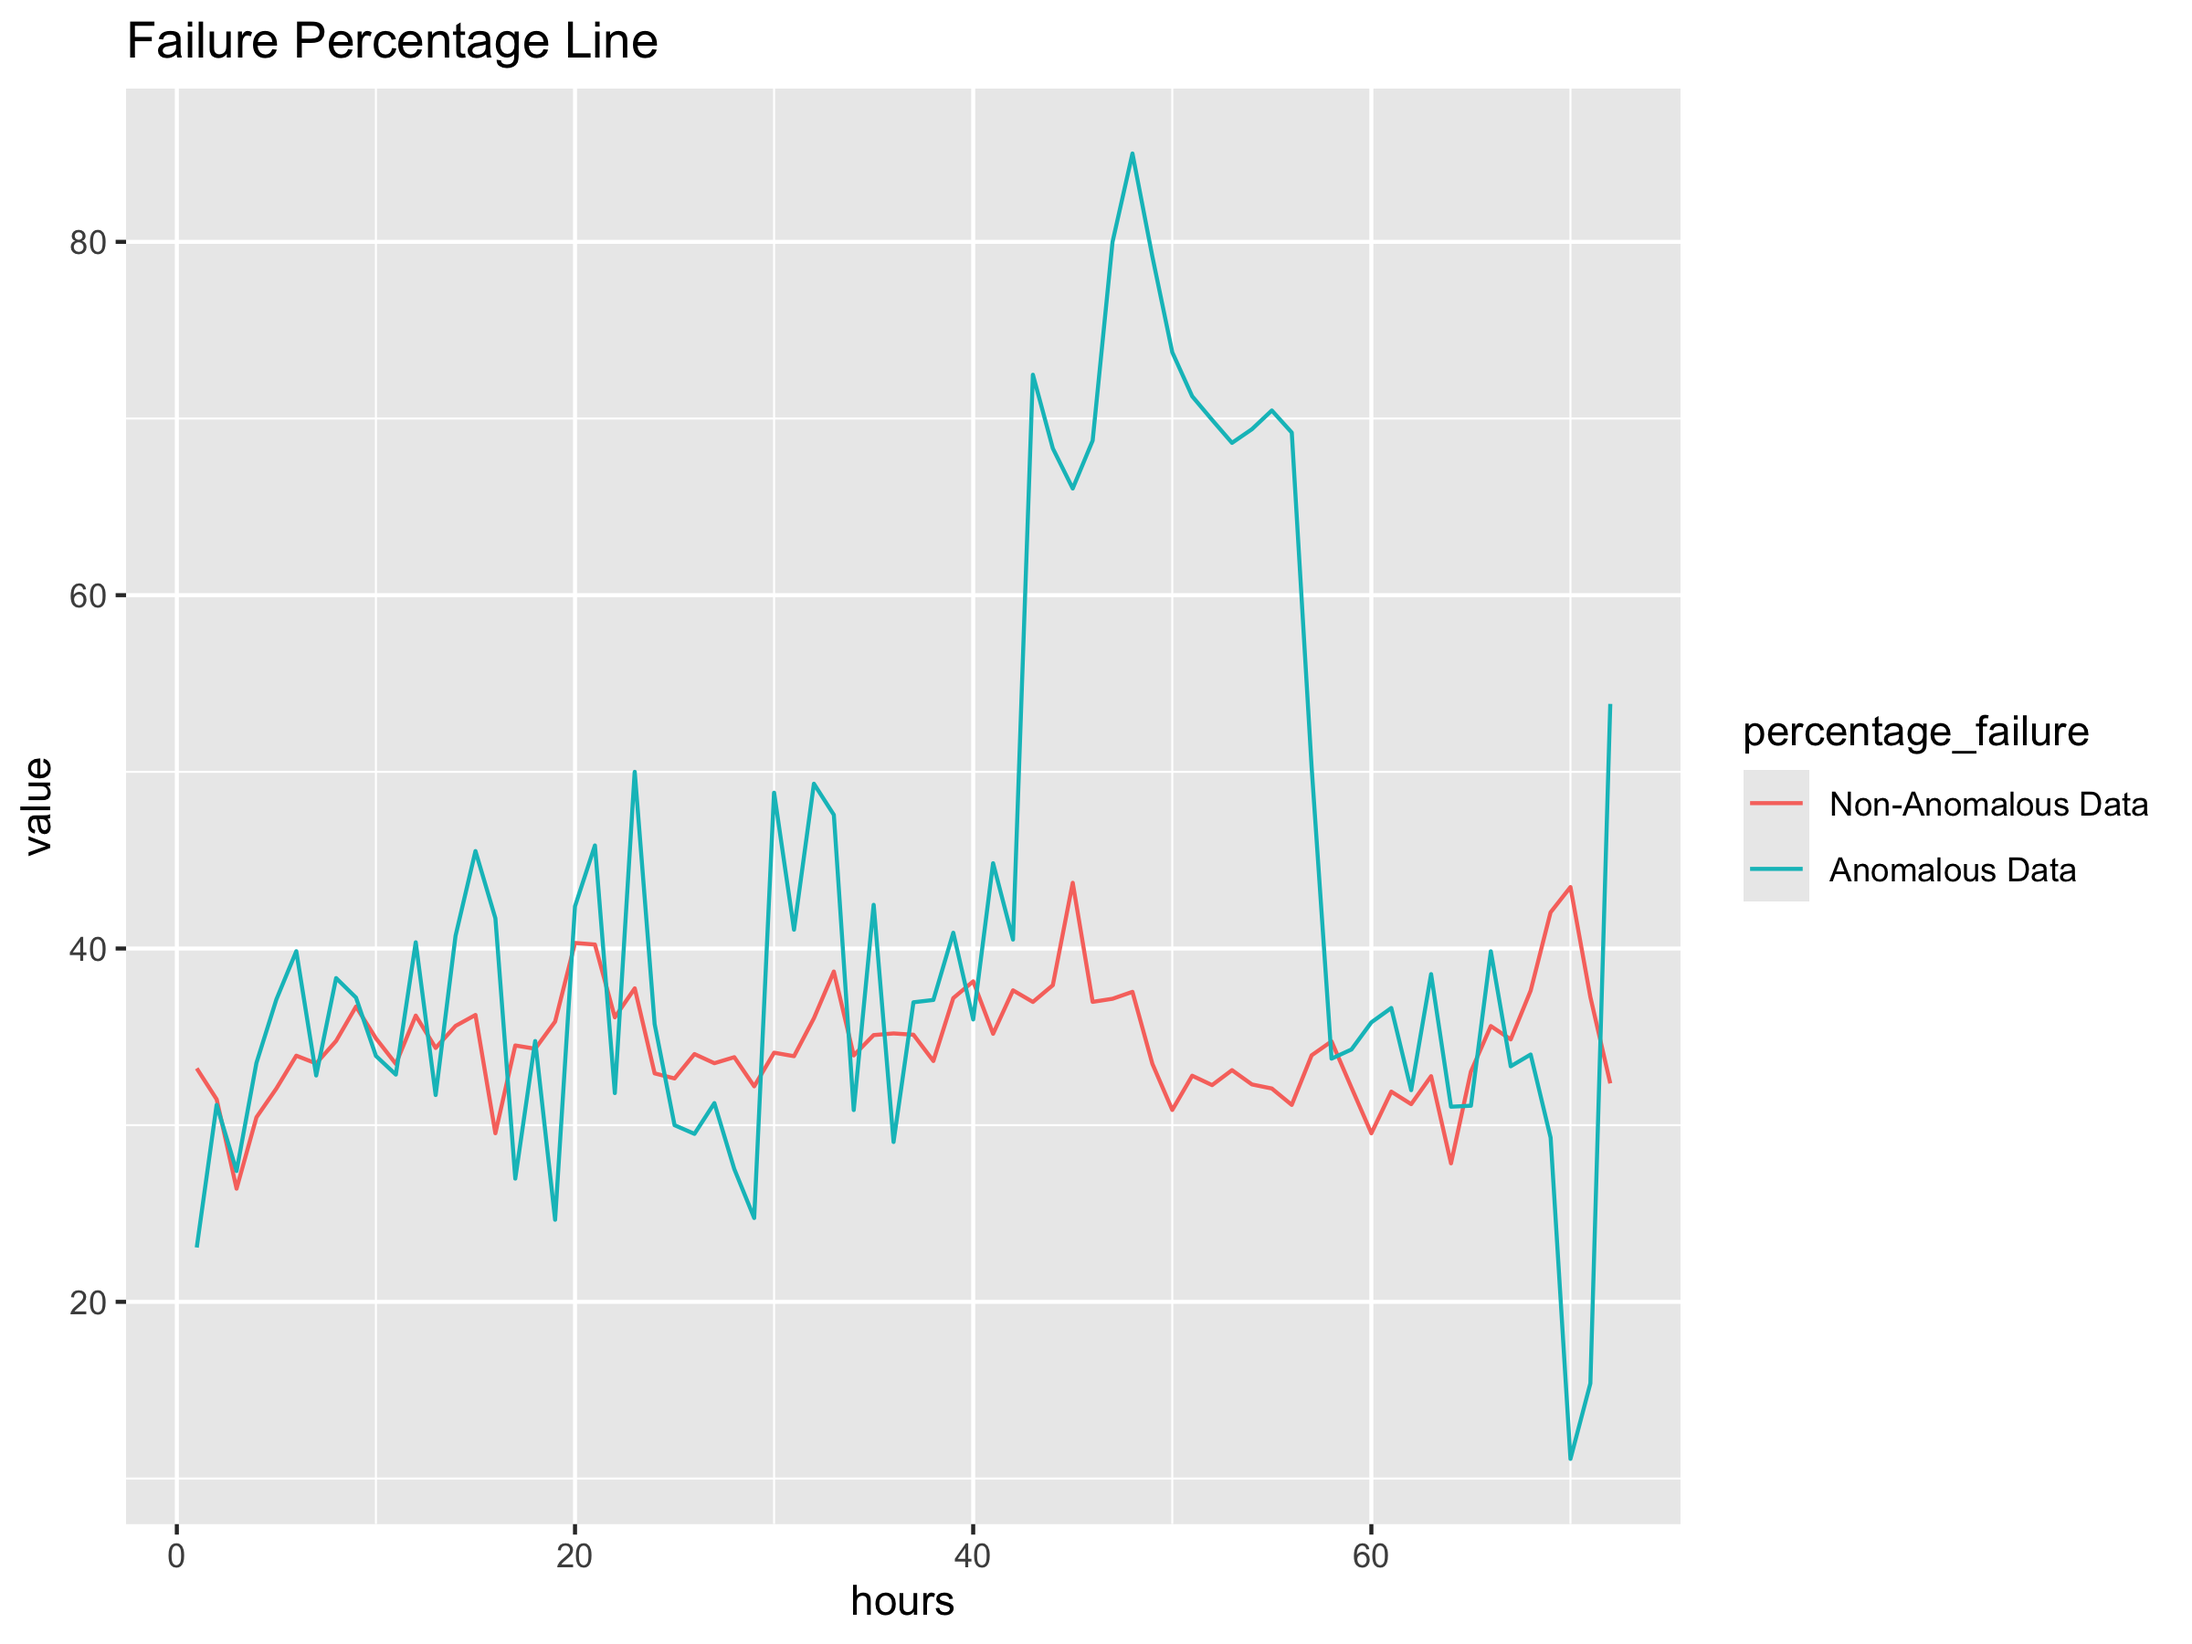
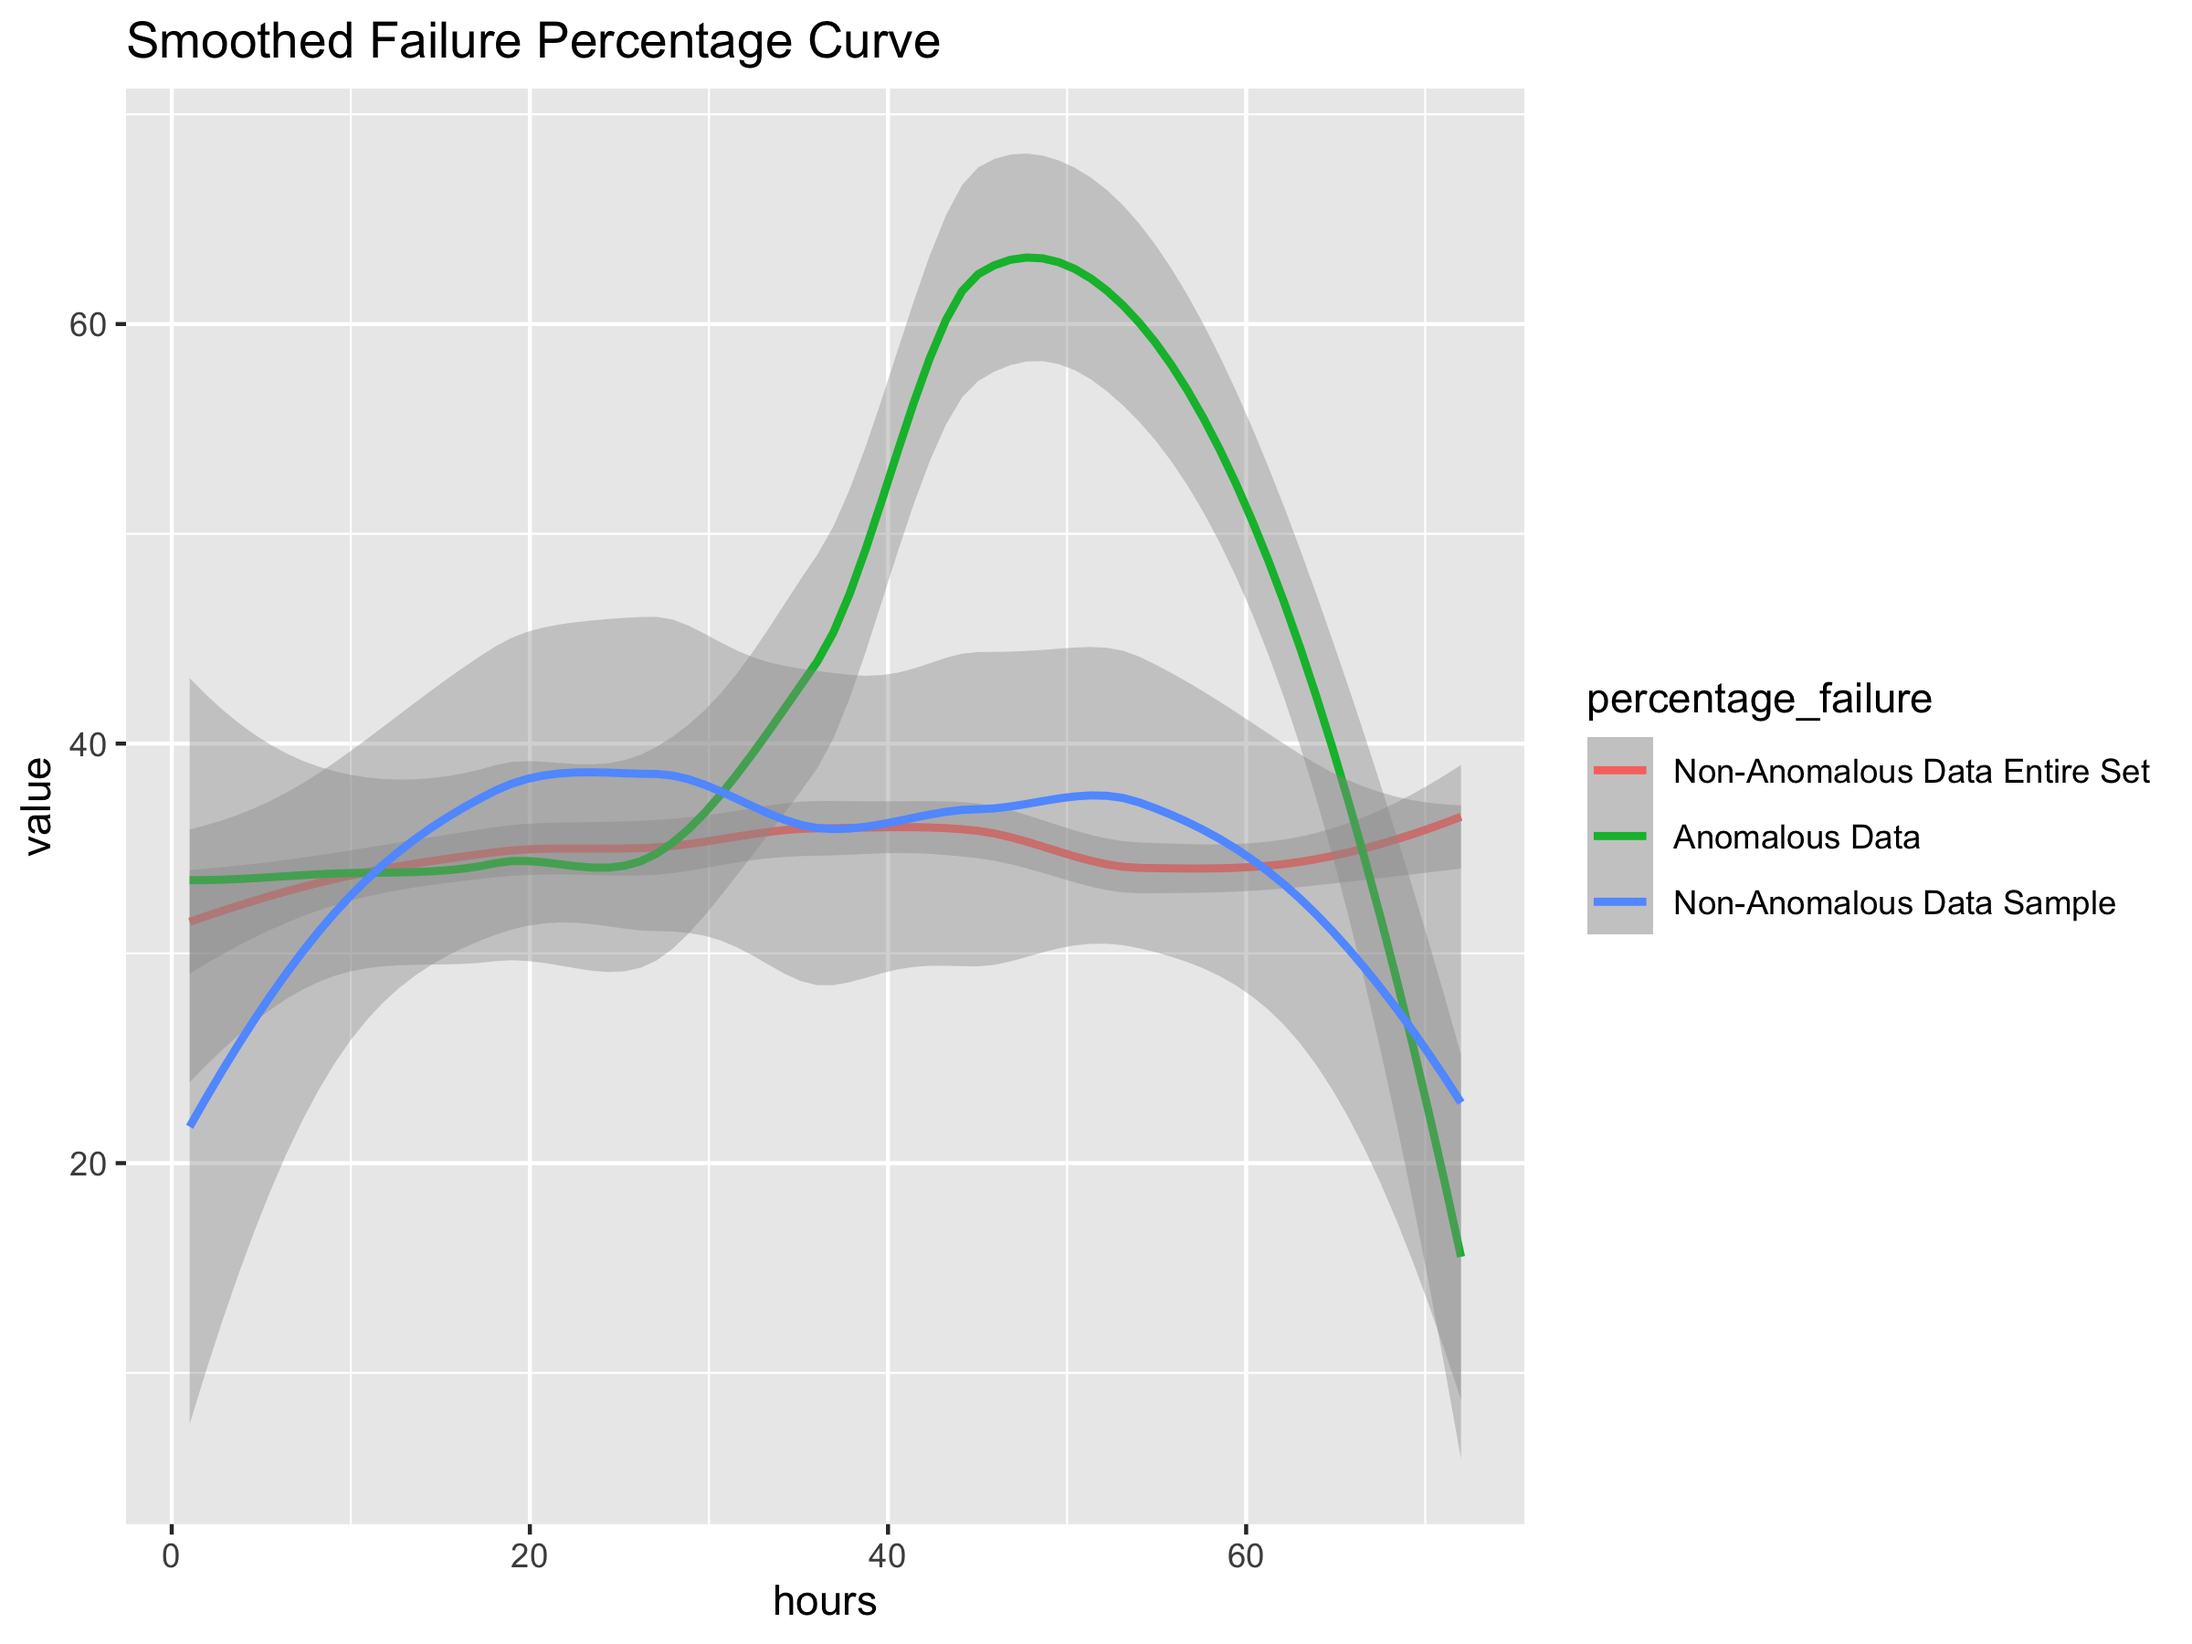
kk

diff --git a/Anamoly_Detection/ReadMe.md b/Anamoly_Detection/ReadMe.md
@@ -648,6 +648,9 @@ To investigate this, we separate the data with the combination of
 variables we found to be problematic from the normal data and produce
 the following plots to compare the two.
 
+Then to produce a fair comparison, we make the number of observations
+within each set equal by selected 552 of the normal data rows at random.
+
 ###### anomaly data
 
 ``` r
@@ -679,14 +682,27 @@ f <- t[, 2] - s[, 2]
 proportion_c <- f / t[, 2] * 100
 ```
 
+###### normal data but equal number of observations selected at random as the anomalous subset
+
+``` r
+set.seed(42)  
+paytm_compliment_sample <- paytm_compliment[sample(nrow(paytm_compliment), 552), ]
+
+t <- aggregate(paytm_compliment_sample$t, by = list(paytm_compliment_sample$hr), sum)
+s <- aggregate(paytm_compliment_sample$s, by = list(paytm_compliment_sample$hr), sum)
+f <- t[, 2] - s[, 2]
+
+proportion_c_sample <- f / t[, 2] * 100
+```
+
 ``` r
 hours <- seq(1, 72, 1)
-wide <- as.data.frame(cbind(hours, proportion_c, proportion_subset))
+wide <- as.data.frame(cbind(hours, proportion_c, proportion_subset,proportion_c_sample))
 
 long <- melt(
   data = wide, 
   id.vars = c("hours"), 
-  measured.vars = c("proportion_c", "proportion_subset"), 
+  measured.vars = c("proportion_c", "proportion_subset","proportion_c_sample"), 
   variable.name = "percentage_failure"
 )
 ```
@@ -698,12 +714,12 @@ ggplot(data = long, aes(x = hours, y = value, group = percentage_failure, color 
     title = "Smoothed Failure Percentage Curve", 
     ylab = "Percentage"
   ) + 
-  scale_color_discrete(labels = c("Non-Anomalous Data", "Anomalous Data"))
+  scale_color_discrete(labels = c("Non-Anomalous Data Entire Set", "Anomalous Data","Non-Anomalous Data Sample"))
 ```
 
 <div align="center">
 
-<img src="ReadMe_files/figure-gfm/unnamed-chunk-19-1.png" width="70%">
+<img src="ReadMe_files/figure-gfm/unnamed-chunk-20-1.png" width="70%">
 
 </div>
 
@@ -723,7 +739,7 @@ ggplot(data = long, aes(x = hours, y = value, group = percentage_failure, color 
 
 <div align="center">
 
-<img src="ReadMe_files/figure-gfm/unnamed-chunk-20-1.png" width="70%">
+<img src="ReadMe_files/figure-gfm/unnamed-chunk-21-1.png" width="70%">
 
 </div>
 
@@ -735,20 +751,23 @@ You can see that the anomalous data has much higher variance than the
 normal data, but this is expected as the anomalous data only has ~500
 observations and the normal data has 1800.
 
-The following graphics displays the distribution of the anamolous data
+The following graphics displays the distribution of the anomalous data
 over a shifting 18 hour time window of first 18 hours of the dataset
 until the last 18 hours of the data set out of the 72.
 
 ![Density Plot Animation](ReadMe_files/figure-gfm/density_animation_high_quality.gif)
 
-The distribution of the anomalous data over the entire 72 hours is as
-follows.
+The distribution of the anomalous data and a sample of the normal data
+of equal size to anomalous.
+
+Notice that the anomalous data is synthetic by it’s perfect
+distribution.
 
 ``` r
 library(plotly)
 
 ggplot(data = wide, aes(proportion_subset)) + 
-  geom_density(data=wide,aes(proportion_c,fill="red",alpha=0.20)) + 
+  geom_density(data=wide,aes(proportion_c_sample,fill="red",alpha=0.20)) + 
   geom_density(fill = "blue", alpha = 0.20) + 
   theme_minimal() + 
   labs(
@@ -760,6 +779,15 @@ ggplot(data = wide, aes(proportion_subset)) +
 
 <div align="center">
 
-<img src="ReadMe_files/figure-gfm/unnamed-chunk-21-1.png" width="70%">
+<img src="ReadMe_files/figure-gfm/unnamed-chunk-22-1.png" width="70%">
 
 </div>
+
+From all of these plots it’s evident that there was no indication that
+failure rate of the observations with the combination of variables in
+which the anomaly occurred was any different from the rest of the data.
+
+An something happened that caused this event at the time it did.
+
+What if there was a control chart that was monitoring this data, at what
+hour would it have detected that something was wrong?
